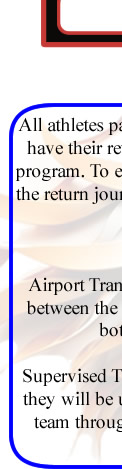
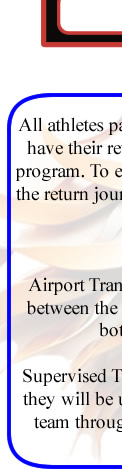
Add files via upload

Changed region(s): [[0.0492, 0.1791, 1.0, 1.0]]

diff --git a/brasilcamp.htm b/brasilcamp.htm
@@ -6,7 +6,7 @@
 <title>brasilcamp.jpg</title>
 <meta http-equiv="Content-Type" content="text/html; charset=utf-8" />
 <style type="text/css">td img {display: block;}</style>
-<!--Fireworks CS3 Dreamweaver CS3 target.  Created Tue Jun 10 14:48:42 GMT+0200 (Romance Daylight Time) 2025-->
+<!--Fireworks CS3 Dreamweaver CS3 target.  Created Tue Jun 10 17:21:09 GMT+0200 (Romance Daylight Time) 2025-->
 <script language="JavaScript1.2" type="text/javascript">
 <!--
 function MM_findObj(n, d) { //v4.01
@@ -47,8 +47,8 @@ function MM_preloadImages() { //v3.0
    <td><img src="spacer.gif" width="331" height="1" border="0" alt="" /></td>
    <td><img src="spacer.gif" width="5" height="1" border="0" alt="" /></td>
    <td><img src="spacer.gif" width="11" height="1" border="0" alt="" /></td>
-   <td><img src="spacer.gif" width="34" height="1" border="0" alt="" /></td>
-   <td><img src="spacer.gif" width="116" height="1" border="0" alt="" /></td>
+   <td><img src="spacer.gif" width="30" height="1" border="0" alt="" /></td>
+   <td><img src="spacer.gif" width="120" height="1" border="0" alt="" /></td>
    <td><img src="spacer.gif" width="105" height="1" border="0" alt="" /></td>
    <td><img src="spacer.gif" width="67" height="1" border="0" alt="" /></td>
    <td><img src="spacer.gif" width="4" height="1" border="0" alt="" /></td>
@@ -104,18 +104,18 @@ function MM_preloadImages() { //v3.0
   </tr>
   <tr>
    <td rowspan="4" colspan="2"><img name="brasilcamp_r10_c5" src="brasilcamp_r10_c5.jpg" width="123" height="412" border="0" id="brasilcamp_r10_c5" alt="" /></td>
-   <td rowspan="6" colspan="2"><a href="javascript:;" onmouseout="MM_swapImgRestore();" onmouseover="MM_swapImage('brasilcamp_r10_c7','','brasilcamp_r10_c7_f2.jpg',1);"><img name="brasilcamp_r10_c7" src="brasilcamp_r10_c7.jpg" width="383" height="521" border="0" id="brasilcamp_r10_c7" alt="" /></a></td>
-   <td rowspan="3" colspan="3"><img name="brasilcamp_r10_c9" src="brasilcamp_r10_c9.jpg" width="50" height="362" border="0" id="brasilcamp_r10_c9" alt="" /></td>
-   <td colspan="6"><a href="javascript:;" onmouseout="MM_swapImgRestore();" onmouseover="MM_swapImage('brasilcamp_r10_c12','','brasilcamp_r10_c12_f2.jpg',1);"><img name="brasilcamp_r10_c12" src="brasilcamp_r10_c12.jpg" width="442" height="186" border="0" id="brasilcamp_r10_c12" alt="" /></a></td>
+   <td rowspan="6" colspan="2"><a href="about.htm" onmouseout="MM_swapImgRestore();" onmouseover="MM_swapImage('brasilcamp_r10_c7','','brasilcamp_r10_c7_f2.jpg',1);"><img name="brasilcamp_r10_c7" src="brasilcamp_r10_c7.jpg" width="383" height="521" border="0" id="brasilcamp_r10_c7" alt="" /></a></td>
+   <td rowspan="3" colspan="3"><img name="brasilcamp_r10_c9" src="brasilcamp_r10_c9.jpg" width="46" height="362" border="0" id="brasilcamp_r10_c9" alt="" /></td>
+   <td colspan="6"><a href="javascript:;" onmouseout="MM_swapImgRestore();" onmouseover="MM_swapImage('brasilcamp_r10_c12','','brasilcamp_r10_c12_f2.jpg',1);"><img name="brasilcamp_r10_c12" src="brasilcamp_r10_c12.jpg" width="446" height="186" border="0" id="brasilcamp_r10_c12" alt="" /></a></td>
    <td rowspan="2"><img name="brasilcamp_r10_c18" src="brasilcamp_r10_c18.jpg" width="10" height="350" border="0" id="brasilcamp_r10_c18" alt="" /></td>
    <td><img src="spacer.gif" width="1" height="186" border="0" alt="" /></td>
   </tr>
   <tr>
-   <td colspan="6"><img name="brasilcamp_r11_c12" src="brasilcamp_r11_c12.jpg" width="442" height="164" border="0" id="brasilcamp_r11_c12" alt="" /></td>
+   <td colspan="6"><img name="brasilcamp_r11_c12" src="brasilcamp_r11_c12.jpg" width="446" height="164" border="0" id="brasilcamp_r11_c12" alt="" /></td>
    <td><img src="spacer.gif" width="1" height="164" border="0" alt="" /></td>
   </tr>
   <tr>
-   <td colspan="3"><img name="brasilcamp_r12_c12" src="brasilcamp_r12_c12.jpg" width="288" height="12" border="0" id="brasilcamp_r12_c12" alt="" /></td>
+   <td colspan="3"><img name="brasilcamp_r12_c12" src="brasilcamp_r12_c12.jpg" width="292" height="12" border="0" id="brasilcamp_r12_c12" alt="" /></td>
    <td colspan="4"><a href="index.htm" onmouseout="MM_swapImgRestore();" onmouseover="MM_swapImage('brasilcamp_r12_c15','','brasilcamp_r12_c15_f2.jpg','brasilcamp_r13_c16','','brasilcamp_r13_c16_f2.jpg',1);"><img name="brasilcamp_r12_c15" src="brasilcamp_r12_c15.jpg" width="164" height="12" border="0" id="brasilcamp_r12_c15" alt="" /></a></td>
    <td><img src="spacer.gif" width="1" height="12" border="0" alt="" /></td>
   </tr>
